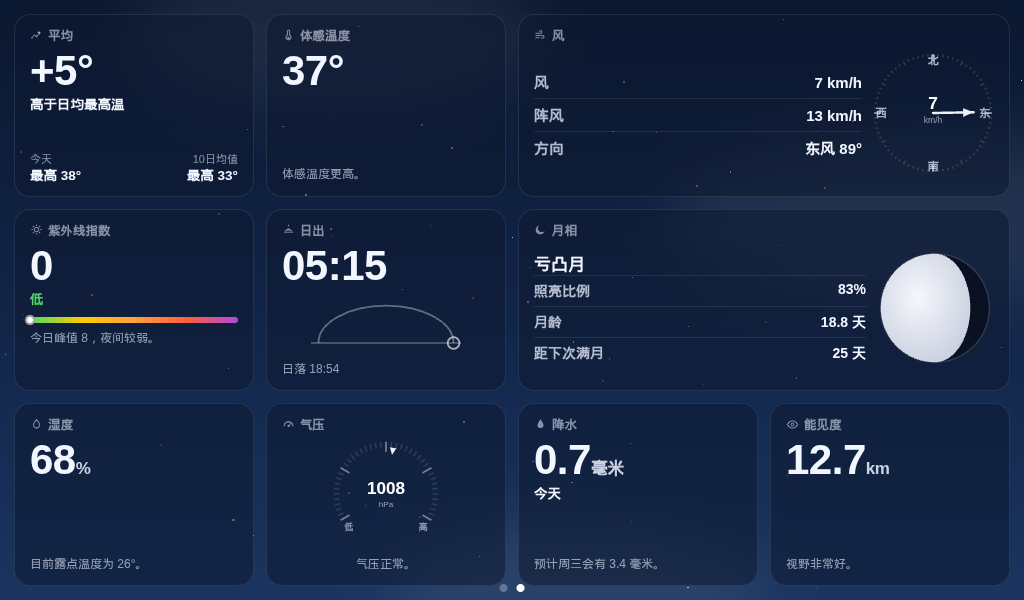
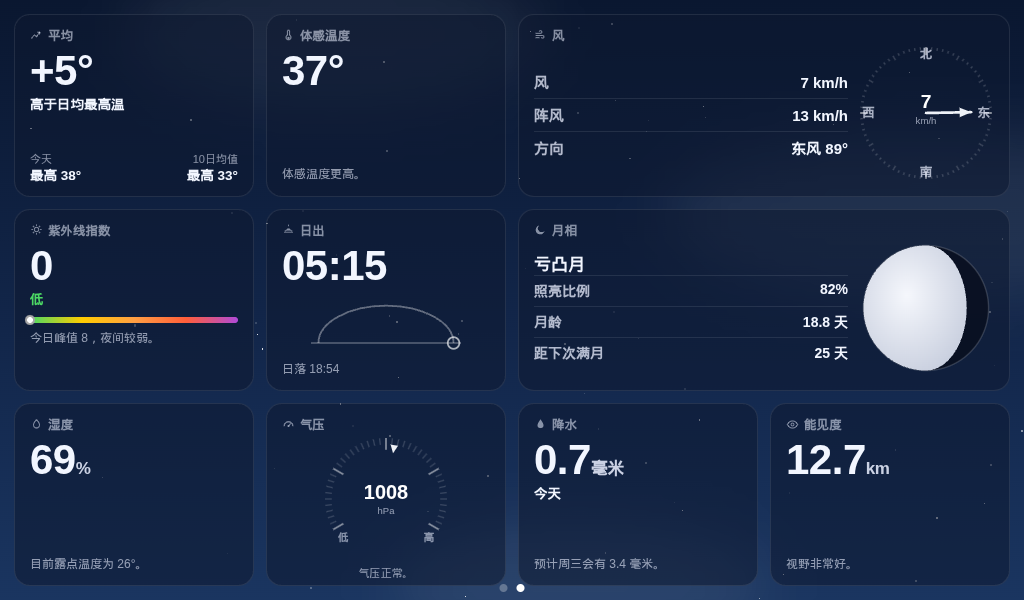
pi_display: 三个轮盘放大为主体 (罗盘/月相 136px, 气压表盘 126px)

diff --git a/pi_display/weather.html b/pi_display/weather.html
@@ -213,7 +213,7 @@ body.day .card{background:rgba(8,30,66,.32)}
       <div class="card dcard">
         <div class="ctitle"><svg width="13" height="13" viewBox="0 0 24 24"><path d="M4 15a8 8 0 1 1 16 0" fill="none" stroke="rgba(235,240,255,.55)" stroke-width="1.8"/><path d="M12 15l4-5" stroke="rgba(235,240,255,.55)" stroke-width="1.8" stroke-linecap="round"/><circle cx="12" cy="15" r="1.6" fill="rgba(235,240,255,.55)"/></svg>气压</div>
         <div id="pgauge" style="text-align:center;margin:auto 0"></div>
-        <div class="desc" style="margin-top:0;text-align:center" id="presDesc">--</div>
+        <div class="desc" style="margin-top:0;text-align:center;font-size:11px" id="presDesc">--</div>
       </div>
       <div class="card dcard">
         <div class="ctitle"><svg width="13" height="13" viewBox="0 0 24 24"><path d="M12 3s5.5 6 5.5 10a5.5 5.5 0 1 1-11 0C6.5 9 12 3 12 3z" fill="rgba(235,240,255,.55)"/></svg>降水</div>
@@ -553,7 +553,7 @@ function renderP2(){
   $('windVal').textContent=Math.round(c.wind_speed_10m)+' km/h';
   $('gustVal').textContent=Math.round(c.wind_gusts_10m||0)+' km/h';
   $('wdirVal').textContent=windCn(c.wind_direction_10m)+' '+Math.round(c.wind_direction_10m)+'°';
-  $('compass').innerHTML=compassSVG(c.wind_direction_10m,Math.round(c.wind_speed_10m),122);
+  $('compass').innerHTML=compassSVG(c.wind_direction_10m,Math.round(c.wind_speed_10m),136);
 
   /* 紫外线 */
   const uvNow=(h.uv_index&&h.uv_index[i0]!=null)?h.uv_index[i0]:0;
@@ -579,7 +579,7 @@ function renderP2(){
   $('moonIllum').textContent=mi.illum+'%';
   $('moonAge').textContent=(Math.round(mi.age*10)/10)+' 天';
   $('moonFull').textContent= mi.toFull<0.5?'就是今天':Math.round(mi.toFull)+' 天';
-  $('moonPic').innerHTML=moonSVG(mi.p,118);
+  $('moonPic').innerHTML=moonSVG(mi.p,136);
 
   /* 湿度 */
   $('humVal').innerHTML=c.relative_humidity_2m+'<small>%</small>';
@@ -588,7 +588,7 @@ function renderP2(){
 
   /* 气压 */
   const hpa=c.pressure_msl;
-  $('pgauge').innerHTML=pressureSVG(hpa,108);
+  $('pgauge').innerHTML=pressureSVG(hpa,126);
   $('presDesc').textContent= hpa>=1022?'气压偏高，天气稳定。':(hpa<=1005?'气压偏低，易有天气变化。':'气压正常。');
 
   /* 降水 */
